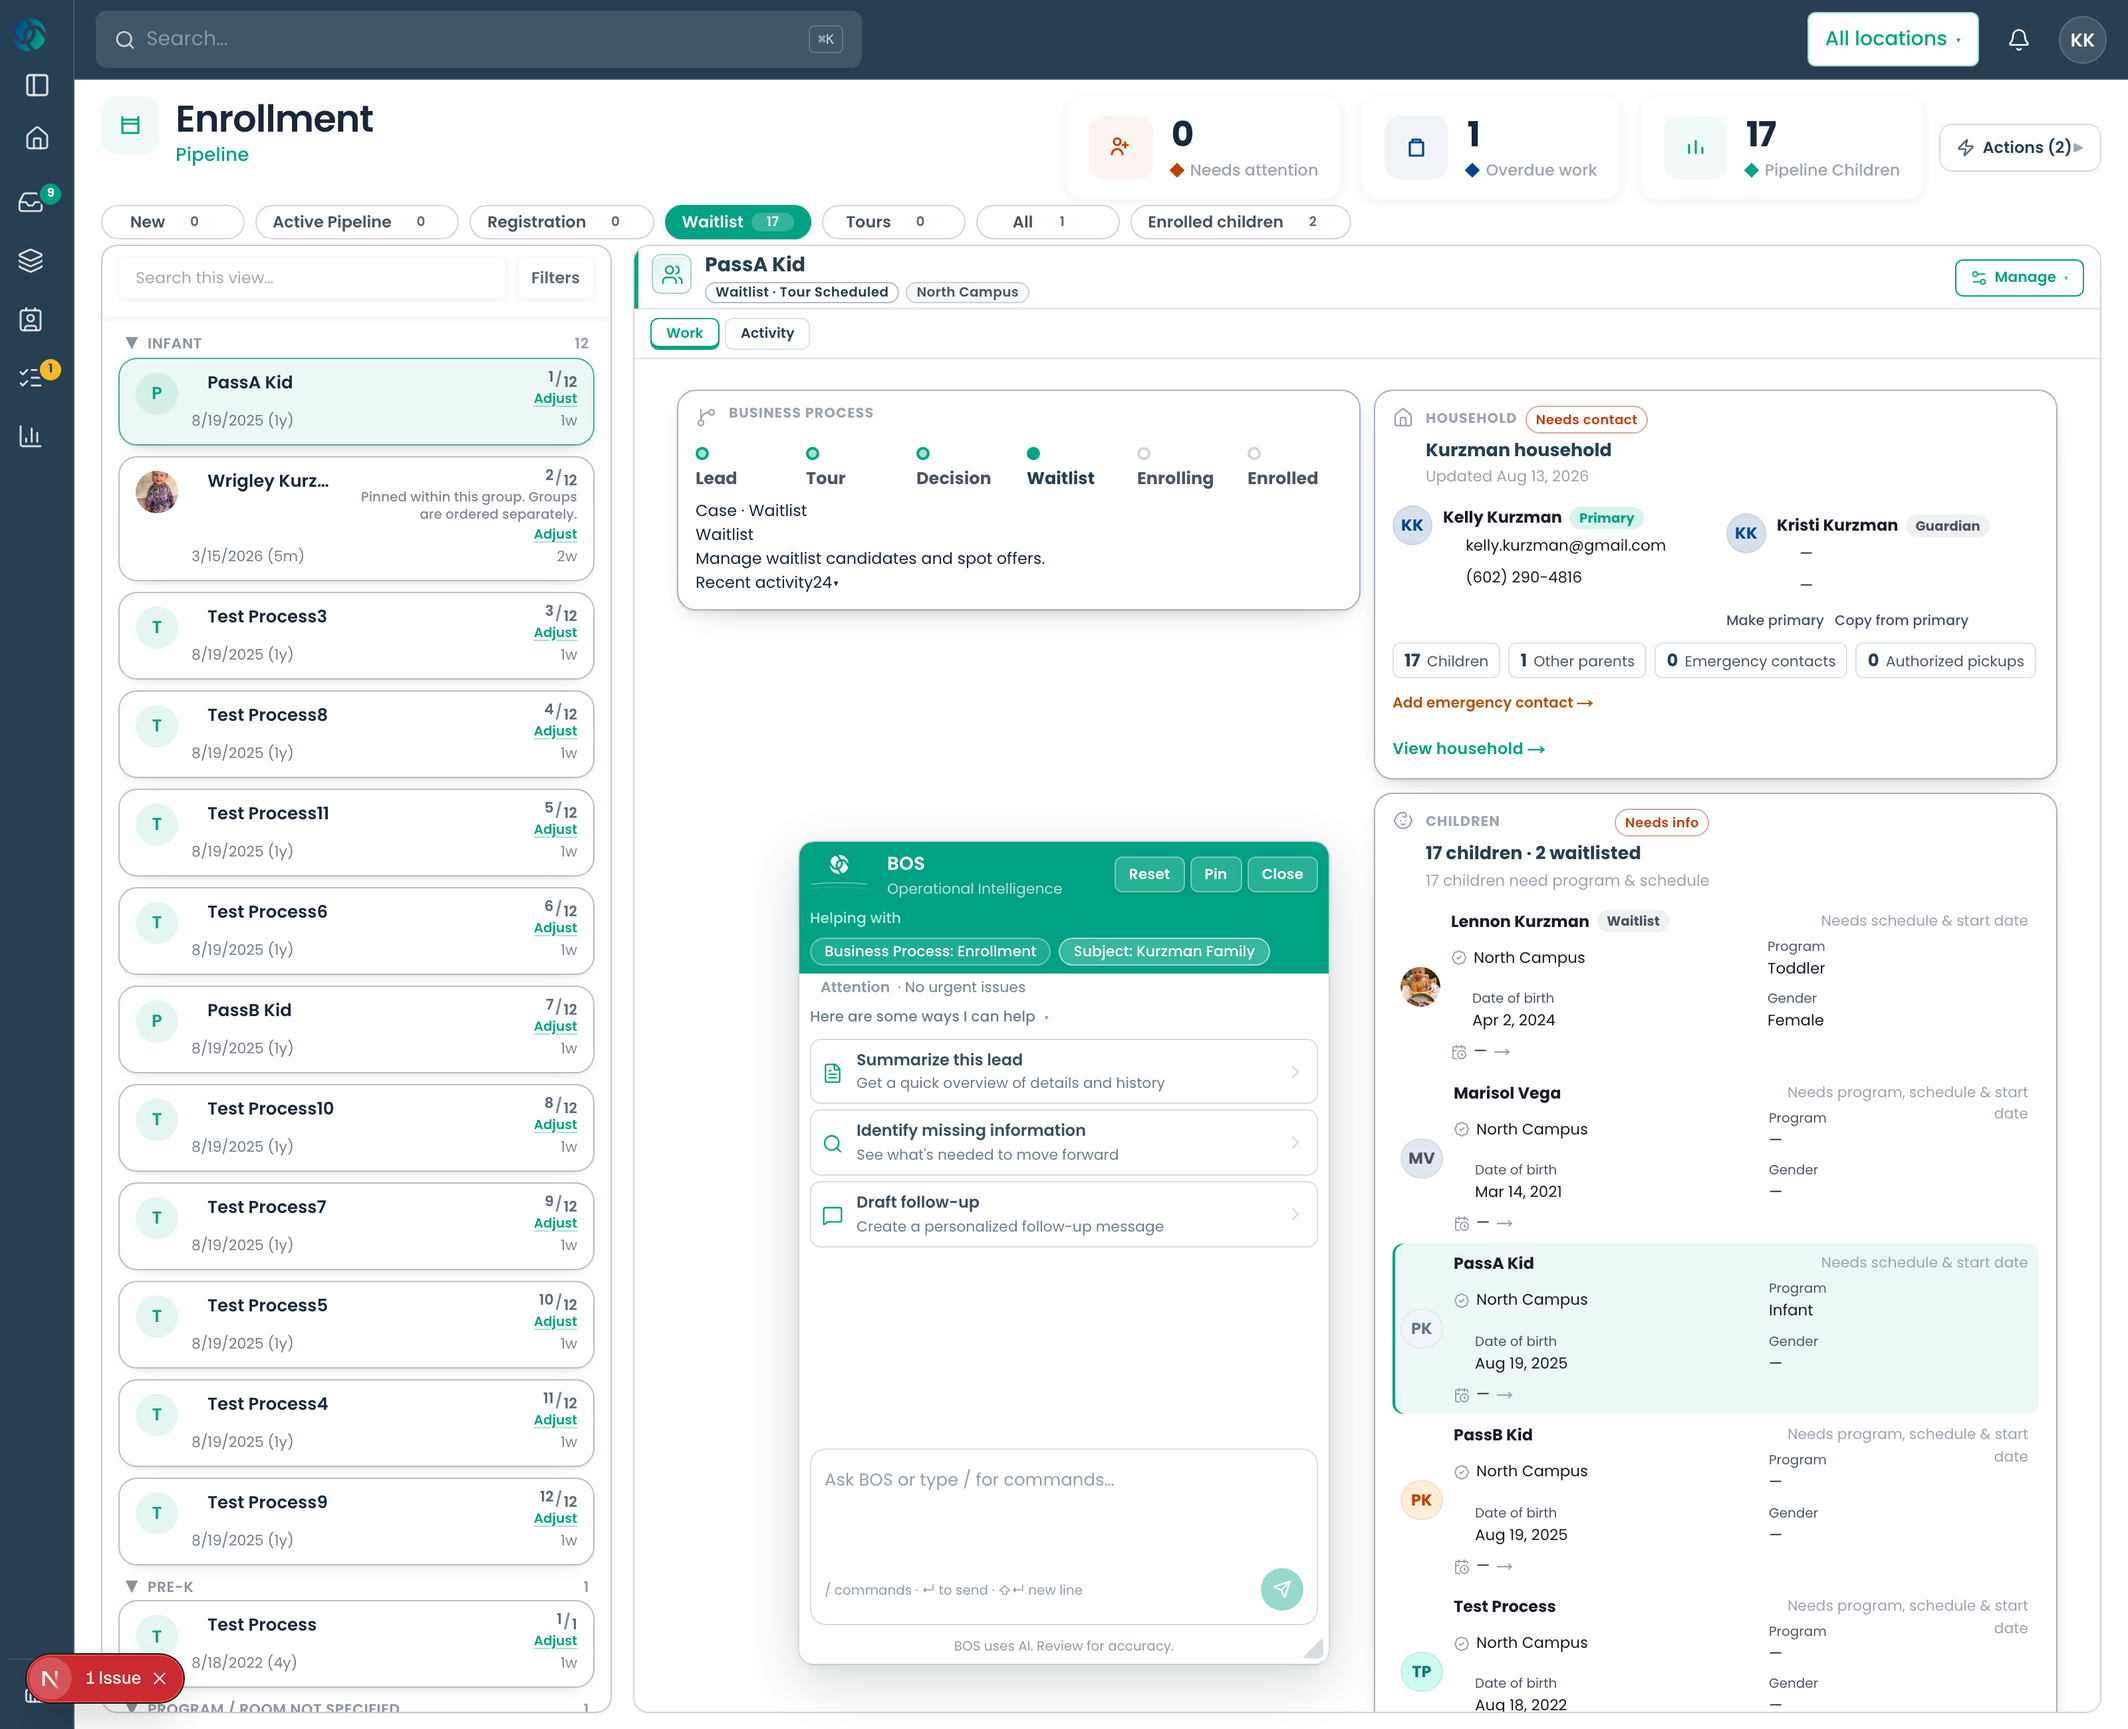
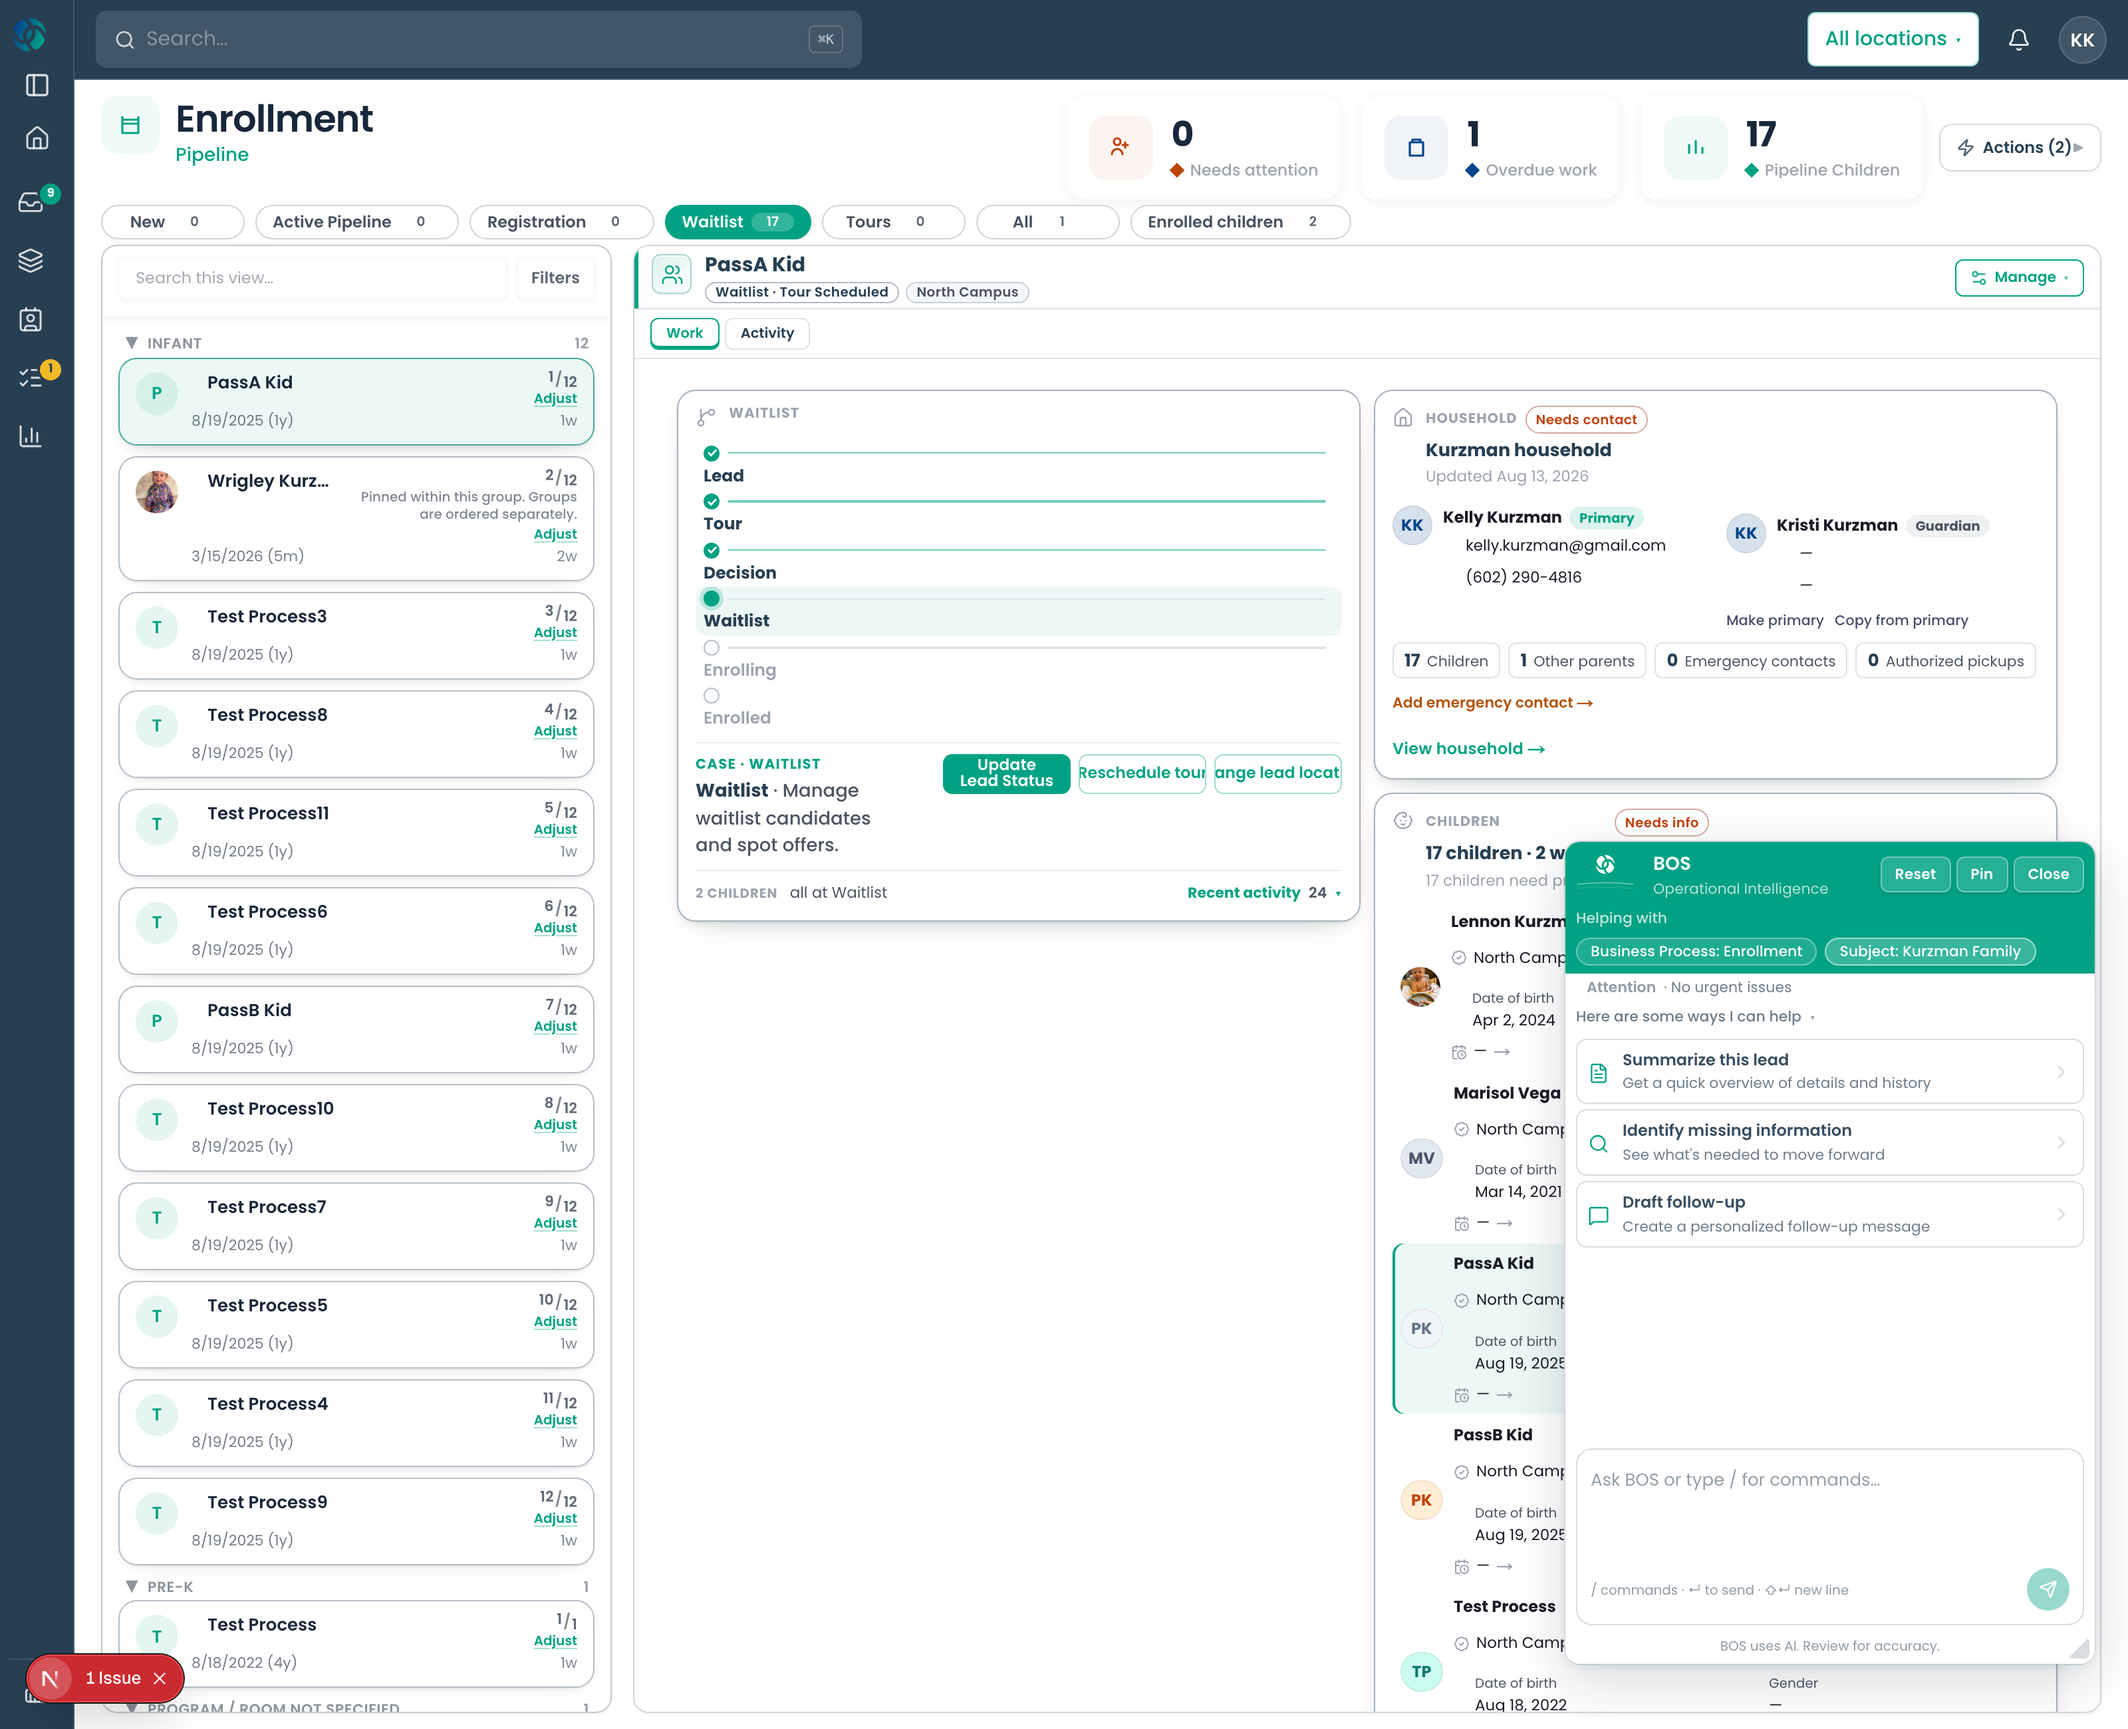
docs(cards): ledger §36 — Business Process converged, three cards still duplicated

diff --git a/docs/platform/operator/operational-card-production-ledger.md b/docs/platform/operator/operational-card-production-ledger.md
@@ -2350,3 +2350,82 @@ Per §10 these cards are **not** re-declared production-ready.
 5. **`customer` billable source is authored, not applied.** The CHECK constraint still admits only
    `job` and `enrollment_agreement`, so the pre-enrolment Add Charge scenario cannot be certified
    until the migration is promoted and applied.
+
+---
+
+## 36. Fidelity pass 2 — Business Process converged; three cards still duplicated (2026-08-27)
+
+### 36.1 The two real causes
+
+QA was right that "same information" is not fidelity. There were two causes, and the second was the
+larger.
+
+**Two components.** The locked specimen lived in the design lab and production kept an
+approximation of the same approved card. `ProcessCard` and `ProgressionBand` now live in
+`components/operationalCards/`, and the production card draws nothing — it supplies canonical
+evidence through an adapter that renames and formats and *decides* nothing. Every judgement was
+already made by `buildBusinessProcessCardEvidence`; a mapper that re-decided any of it would be the
+second answer that caused the drift.
+
+**Two stylesheets — and this was most of what QA saw.** The locked styles existed only in the lab:
+
+```text
+progression-band rules   lab 32   production 0
+process rules            lab 32   production 13
+```
+
+Production rendered the approved component's DOM with **none** of its appearance. A shared component
+with a private stylesheet is still two presentations. 62 rules now live in
+`operationalCardsShared.css`, imported by both surfaces; the 75 private copies are gone.
+
+The "malformed" `Recent activity24▾` and `2 childrenall at Waitlist` were never markup bugs — they
+were missing styles.
+
+### 36.2 Business Process — the four audit gaps
+
+| Gap | Status |
+|---|---|
+| `evidence.actions` not consumed | **closed** — renders the registry's resolved actions (3 on the Waitlist case: Update Lead Status · Reschedule tour · Change lead location). Provider resolves, card renders, nothing hardcoded. |
+| aligned participant summary | **closed** — the adapter carries every participant so the *component* decides; reads `2 CHILDREN all at Waitlist` |
+| stage annotations | **pass-through proven**; this Enrollment configuration declares none, so zero is correct. Not yet certified against a process that declares some. |
+| canonical process name | **still open** — see below |
+
+The title no longer claims the stage is the process. `evidence.processLabel` is sourced from the
+stage label, so passing it made the card read "WAITLIST" above a rail already saying Waitlist. The
+canonical name exists server-side — `contextualFocusAnswer` carries `businessProcess.name` — but
+nothing plumbs it into the operational context. The route is
+`answer.businessProcess.name → OperationalSubjectContext → commitCritical → OperationalContext`.
+
+### 36.3 Financials speaks to operators now
+
+The Payment region was printing *"payments are not recorded for enrollment accounts yet"*,
+*"autopay is not configured in this platform"* and *"responsibility splits are owned by Processing"* —
+development findings on a card someone uses to run a childcare centre. The VM now carries a canonical
+`paymentSetup`, deliberately separate from the `unavailable` list that records why the *platform*
+cannot answer.
+
+```text
+CURRENT PERIOD · Charges $0.00 · Responsibility $0.00
+PAST DUE       · Nothing past due
+PAYMENT        · No payment method on file
+Add charge →     Details →
+```
+
+Health also stopped announcing emptiness as its headline (`… · No recorded health facts`); the card
+already exists in the child's context, so the name is the answer.
+
+### 36.4 Verified — 0 page errors, 0 failed requests
+
+Waitlist family and the certification enrolled family both render all four cards. Tests: **1183
+passing**, 6 skipped.
+
+### 36.5 NOT done — do not read this as fidelity-complete
+
+1. **Attendance, Financials and Health & Safety are still duplicated.** Only Business Process was
+   converged. `cardLab/AttendanceCard · FinancialsCard · HealthSafetyCard` remain separate from their
+   production counterparts. §5 is the primary acceptance criterion and is **one of four** met.
+2. **The `customer` billable-source migration is authored but not promoted or applied**, so the
+   pre-enrolment Add Charge scenario still cannot be certified.
+3. **No pixel-level side-by-side measurements** were taken (§6). Anatomy was compared structurally.
+4. **Canonical process name** not plumbed (§36.2).
+5. **Stage annotations** unproven against a configured specimen.
